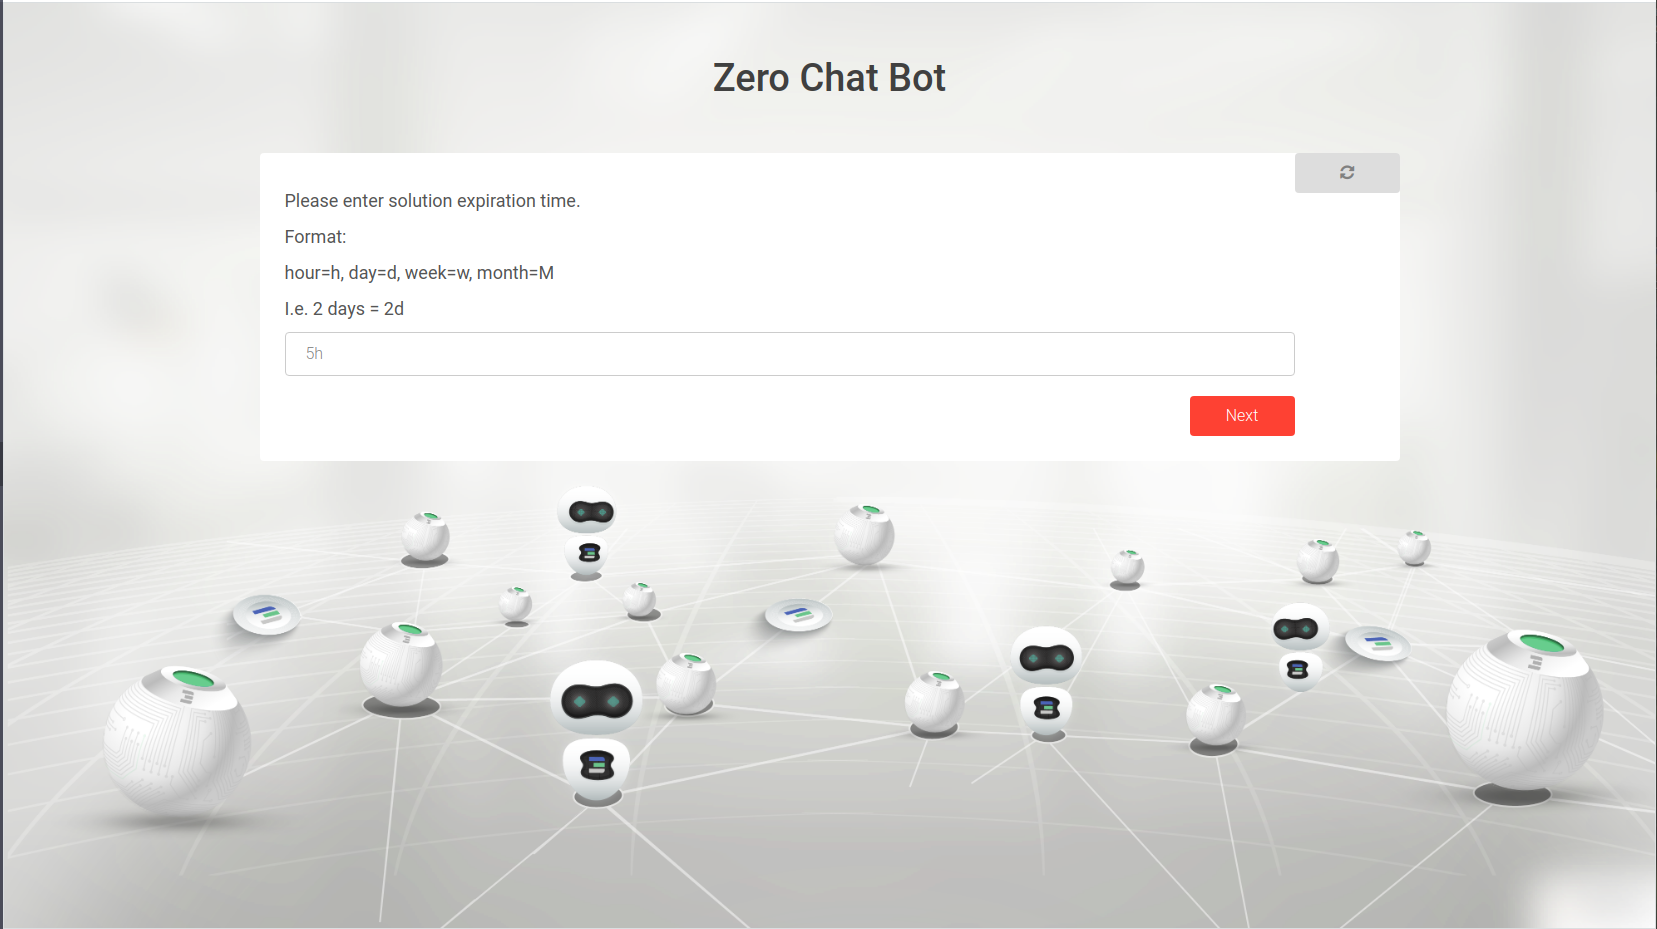
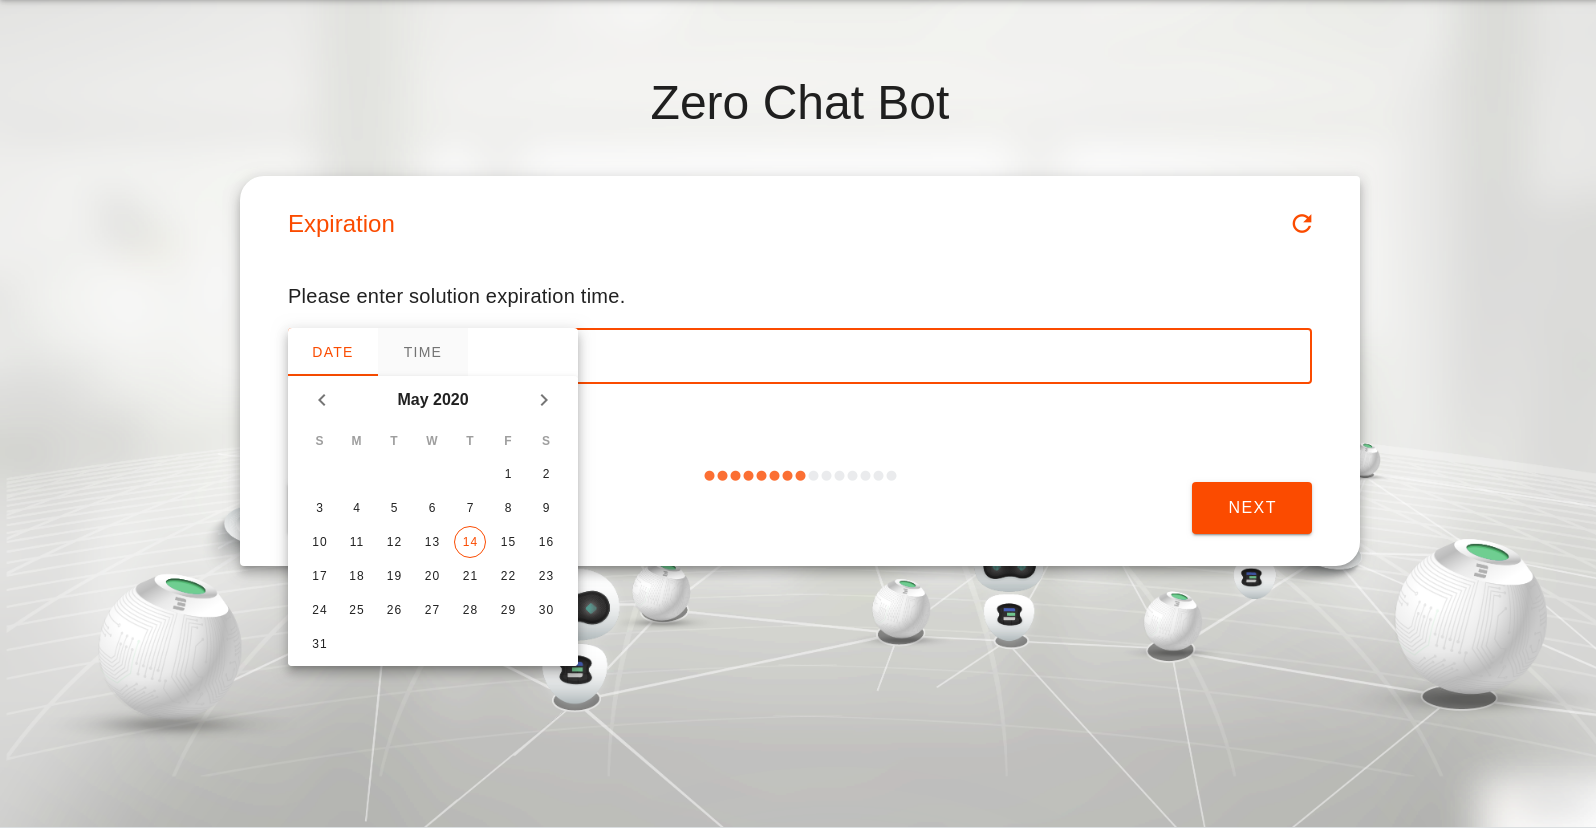
Update minio deploy solution docs with new chatflows images

diff --git a/ThreeBotPackages/tfgrid_solutions/tfgrid_solutions/wiki/minio/README.md b/ThreeBotPackages/tfgrid_solutions/tfgrid_solutions/wiki/minio/README.md
@@ -28,15 +28,15 @@ After the deployment of MinIO is complete,  a url will be returned that can be u
 
 ## Deploying MinIO
 
-### Choosing the solution name
-
-![Step3](minio3.png)
-Choosing the name of the solution to be deployed. This allows the user to view the solution's reservation info in the dashboard deployed solutions
-
 ### Choosing the network name
 
 ![Step2](minio2.png)
 Choosing the network to be used from a list of existing networks created by the user
+
+### Choosing the solution name
+
+![Step3](minio3.png)
+Choosing the name of the solution to be deployed. This allows the user to view the solution's reservation info in the dashboard deployed solutions
 
 ### Choosing the Disk Type for zdb
 
@@ -66,7 +66,9 @@ Now we define the expiration time for the solution on the grid.
 
 ### Choose a farm to deploy on
 
-![step8](../farms.png)
+![step8](minio_farms_zdb.png)
+
+![](minio_farms_container.png)
 
 We can choose the farms on which the container can be deployed on. The farms are basically a group of nodes where multiple solutions can be deployed on them. We can either choose the farm name from the drop down list or leave it empty to randomly choose any farm.
 
@@ -82,12 +84,14 @@ The user should confirm his reservation details
 
 ### Payment
 
-![step10](../payment.png)
+![step10](minio_payment_zdb.png)
+
+![](minio_payment_container.png)
 
 We select the wallet that we will pay with to proceed with the payment for the solution that will be deployed. There are two payments to be done, one for the zdb used for the cluster and the other one for the container that will have minio deployed on.
 
 ### Access information
-![Step15](minio16.jpg)
+![Step15](minio16.png)
 You will get a message indicating the success of your reservation or error in case of error for any reason.
 
 ### Login Page
